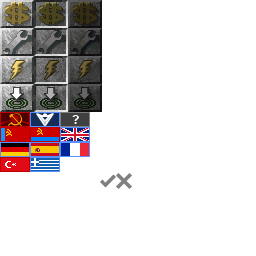
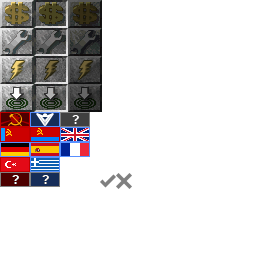
Allow picking of a random subfaction

Changed region(s): [[0.0, 0.6562, 0.25, 0.75]]

diff --git a/OpenRA.Mods.Common/Widgets/Logic/Lobby/LobbyUtils.cs b/OpenRA.Mods.Common/Widgets/Logic/Lobby/LobbyUtils.cs
@@ -110,7 +110,7 @@ namespace OpenRA.Mods.Common.Widgets.Logic
 			Func<string, ScrollItemWidget, ScrollItemWidget> setupItem = (race, itemTemplate) =>
 			{
 				var item = ScrollItemWidget.Setup(itemTemplate,
-					() => client.Country == race,
+					() => client.Race == race,
 					() => orderManager.IssueOrder(Order.Command("race {0} {1}".F(client.Index, race))));
 				var country = countries[race];
 				item.Get<LabelWidget>("LABEL").GetText = () => country.Name;
@@ -398,7 +398,7 @@ namespace OpenRA.Mods.Common.Widgets.Logic
 			var dropdown = parent.Get<DropDownButtonWidget>("FACTION");
 			dropdown.IsDisabled = () => s.LockRace || orderManager.LocalClient.IsReady;
 			dropdown.OnMouseDown = _ => ShowRaceDropDown(dropdown, c, orderManager, countries);
-			var factionDescription = countries[c.Country].Description;
+			var factionDescription = countries[c.Race].Description;
 			dropdown.GetTooltipText = () => factionDescription;
 			SetupFactionWidget(dropdown, s, c, countries);
 		}
@@ -407,9 +407,9 @@ namespace OpenRA.Mods.Common.Widgets.Logic
 			Dictionary<string, LobbyCountry> countries)
 		{
 			var factionName = parent.Get<LabelWidget>("FACTIONNAME");
-			factionName.GetText = () => countries[c.Country].Name;
+			factionName.GetText = () => countries[c.Race].Name;
 			var factionFlag = parent.Get<ImageWidget>("FACTIONFLAG");
-			factionFlag.GetImageName = () => c.Country;
+			factionFlag.GetImageName = () => c.Race;
 			factionFlag.GetImageCollection = () => "flags";
 		}
 

diff --git a/OpenRA.Game/Player.cs b/OpenRA.Game/Player.cs
@@ -52,8 +52,20 @@ namespace OpenRA
 				.WithInterface<CountryInfo>().Where(c => !requireSelectable || c.Selectable)
 				.ToList();
 
-			return selectableCountries.FirstOrDefault(c => c.Race == name)
+			var selected = selectableCountries.FirstOrDefault(c => c.Race == name)
 				?? selectableCountries.Random(world.SharedRandom);
+
+			// Don't loop infinite
+			for (var i = 0; i <= 10 && selected.RandomRaceMembers.Any(); i++)
+			{
+				var race = selected.RandomRaceMembers.Random(world.SharedRandom);
+				selected = selectableCountries.FirstOrDefault(c => c.Race == race);
+
+				if (selected == null)
+					throw new YamlException("Unknown race: {0}".F(race));
+			}
+
+			return selected;
 		}
 
 		public Player(World world, Session.Client client, Session.Slot slot, PlayerReference pr)
@@ -70,7 +82,7 @@ namespace OpenRA
 				Color = client.Color;
 				PlayerName = client.Name;
 				botType = client.Bot;
-				Country = ChooseCountry(world, client.Country);
+				Country = ChooseCountry(world, client.Race);
 			}
 			else
 			{

diff --git a/OpenRA.Mods.Common/ServerTraits/LobbyCommands.cs b/OpenRA.Mods.Common/ServerTraits/LobbyCommands.cs
@@ -270,7 +270,7 @@ namespace OpenRA.Mods.Common.Server
 								Name = botType,
 								Bot = botType,
 								Slot = parts[0],
-								Country = "random",
+								Race = "Random",
 								SpawnPoint = 0,
 								Team = 0,
 								State = Session.ClientState.NotReady,
@@ -738,7 +738,7 @@ namespace OpenRA.Mods.Common.Server
 						if (server.LobbyInfo.Slots[targetClient.Slot].LockRace)
 							return true;
 
-						targetClient.Country = parts[1];
+						targetClient.Race = parts[1];
 						server.SyncLobbyClients();
 						return true;
 					}

diff --git a/OpenRA.Game/Server/Server.cs b/OpenRA.Game/Server/Server.cs
@@ -64,7 +64,7 @@ namespace OpenRA.Server
 			else
 				c.Color = c.PreferredColor;
 			if (pr.LockRace)
-				c.Country = pr.Race;
+				c.Race = pr.Race;
 			if (pr.LockSpawn)
 				c.SpawnPoint = pr.Spawn;
 			if (pr.LockTeam)
@@ -289,7 +289,7 @@ namespace OpenRA.Server
 					Slot = LobbyInfo.FirstEmptySlot(),
 					PreferredColor = handshake.Client.Color,
 					Color = handshake.Client.Color,
-					Country = "random",
+					Race = "Random",
 					SpawnPoint = 0,
 					Team = 0,
 					State = Session.ClientState.Invalid,

diff --git a/OpenRA.Mods.Common/Widgets/Logic/Lobby/LobbyLogic.cs b/OpenRA.Mods.Common/Widgets/Logic/Lobby/LobbyLogic.cs
@@ -144,7 +144,6 @@ namespace OpenRA.Mods.Common.Widgets.Logic
 			colorPreview = lobby.Get<ColorPreviewManagerWidget>("COLOR_MANAGER");
 			colorPreview.Color = Game.Settings.Player.Color;
 
-			countries.Add("random", new LobbyCountry { Name = "Any" });
 			foreach (var c in modRules.Actors["world"].Traits.WithInterface<CountryInfo>().Where(c => c.Selectable))
 				countries.Add(c.Race, new LobbyCountry { Name = c.Name, Side = c.Side, Description = c.Description });
 

diff --git a/OpenRA.Game/Network/Session.cs b/OpenRA.Game/Network/Session.cs
@@ -102,7 +102,7 @@ namespace OpenRA.Network
 			public int Index;
 			public HSLColor PreferredColor; // Color that the client normally uses from settings.yaml.
 			public HSLColor Color; // Actual color that the client is using. Usually the same as PreferredColor but can be different on maps with locked colors.
-			public string Country;
+			public string Race;
 			public int SpawnPoint;
 			public string Name;
 			public string IpAddress;

diff --git a/OpenRA.Game/Traits/World/Country.cs b/OpenRA.Game/Traits/World/Country.cs
@@ -18,6 +18,9 @@ namespace OpenRA.Traits
 		[Desc("This is the internal name for owner checks.")]
 		public readonly string Race = null;
 
+		[Desc("Pick a random race as the player's race out of this list.")]
+		public readonly string[] RandomRaceMembers = { };
+
 		[Desc("The side that the country belongs to. For example, England belongs to the 'Allies' side.")]
 		public readonly string Side = null;
 

diff --git a/OpenRA.Game/GameInformation.cs b/OpenRA.Game/GameInformation.cs
@@ -118,7 +118,7 @@ namespace OpenRA
 				Color = runtimePlayer.Color,
 				Team = client.Team,
 				SpawnPoint = runtimePlayer.SpawnPoint,
-				IsRandomFaction = runtimePlayer.Country.Race != client.Country,
+				IsRandomFaction = runtimePlayer.Country.Race != client.Race,
 				IsRandomSpawnPoint = runtimePlayer.SpawnPoint != client.SpawnPoint
 			};
 

diff --git a/OpenRA.Game/Network/UnitOrders.cs b/OpenRA.Game/Network/UnitOrders.cs
@@ -154,7 +154,7 @@ namespace OpenRA.Network
 							Name = Game.Settings.Player.Name,
 							PreferredColor = Game.Settings.Player.Color,
 							Color = Game.Settings.Player.Color,
-							Country = "random",
+							Race = "Random",
 							SpawnPoint = 0,
 							Team = 0,
 							State = Session.ClientState.Invalid

diff --git a/OpenRA.Game/Widgets/MapPreviewWidget.cs b/OpenRA.Game/Widgets/MapPreviewWidget.cs
@@ -32,7 +32,7 @@ namespace OpenRA.Widgets
 			ClientIndex = client.Index;
 			PlayerName = client.Name;
 			Team = client.Team;
-			Country = client.Country;
+			Country = client.Race;
 			SpawnPoint = client.SpawnPoint;
 		}
 
